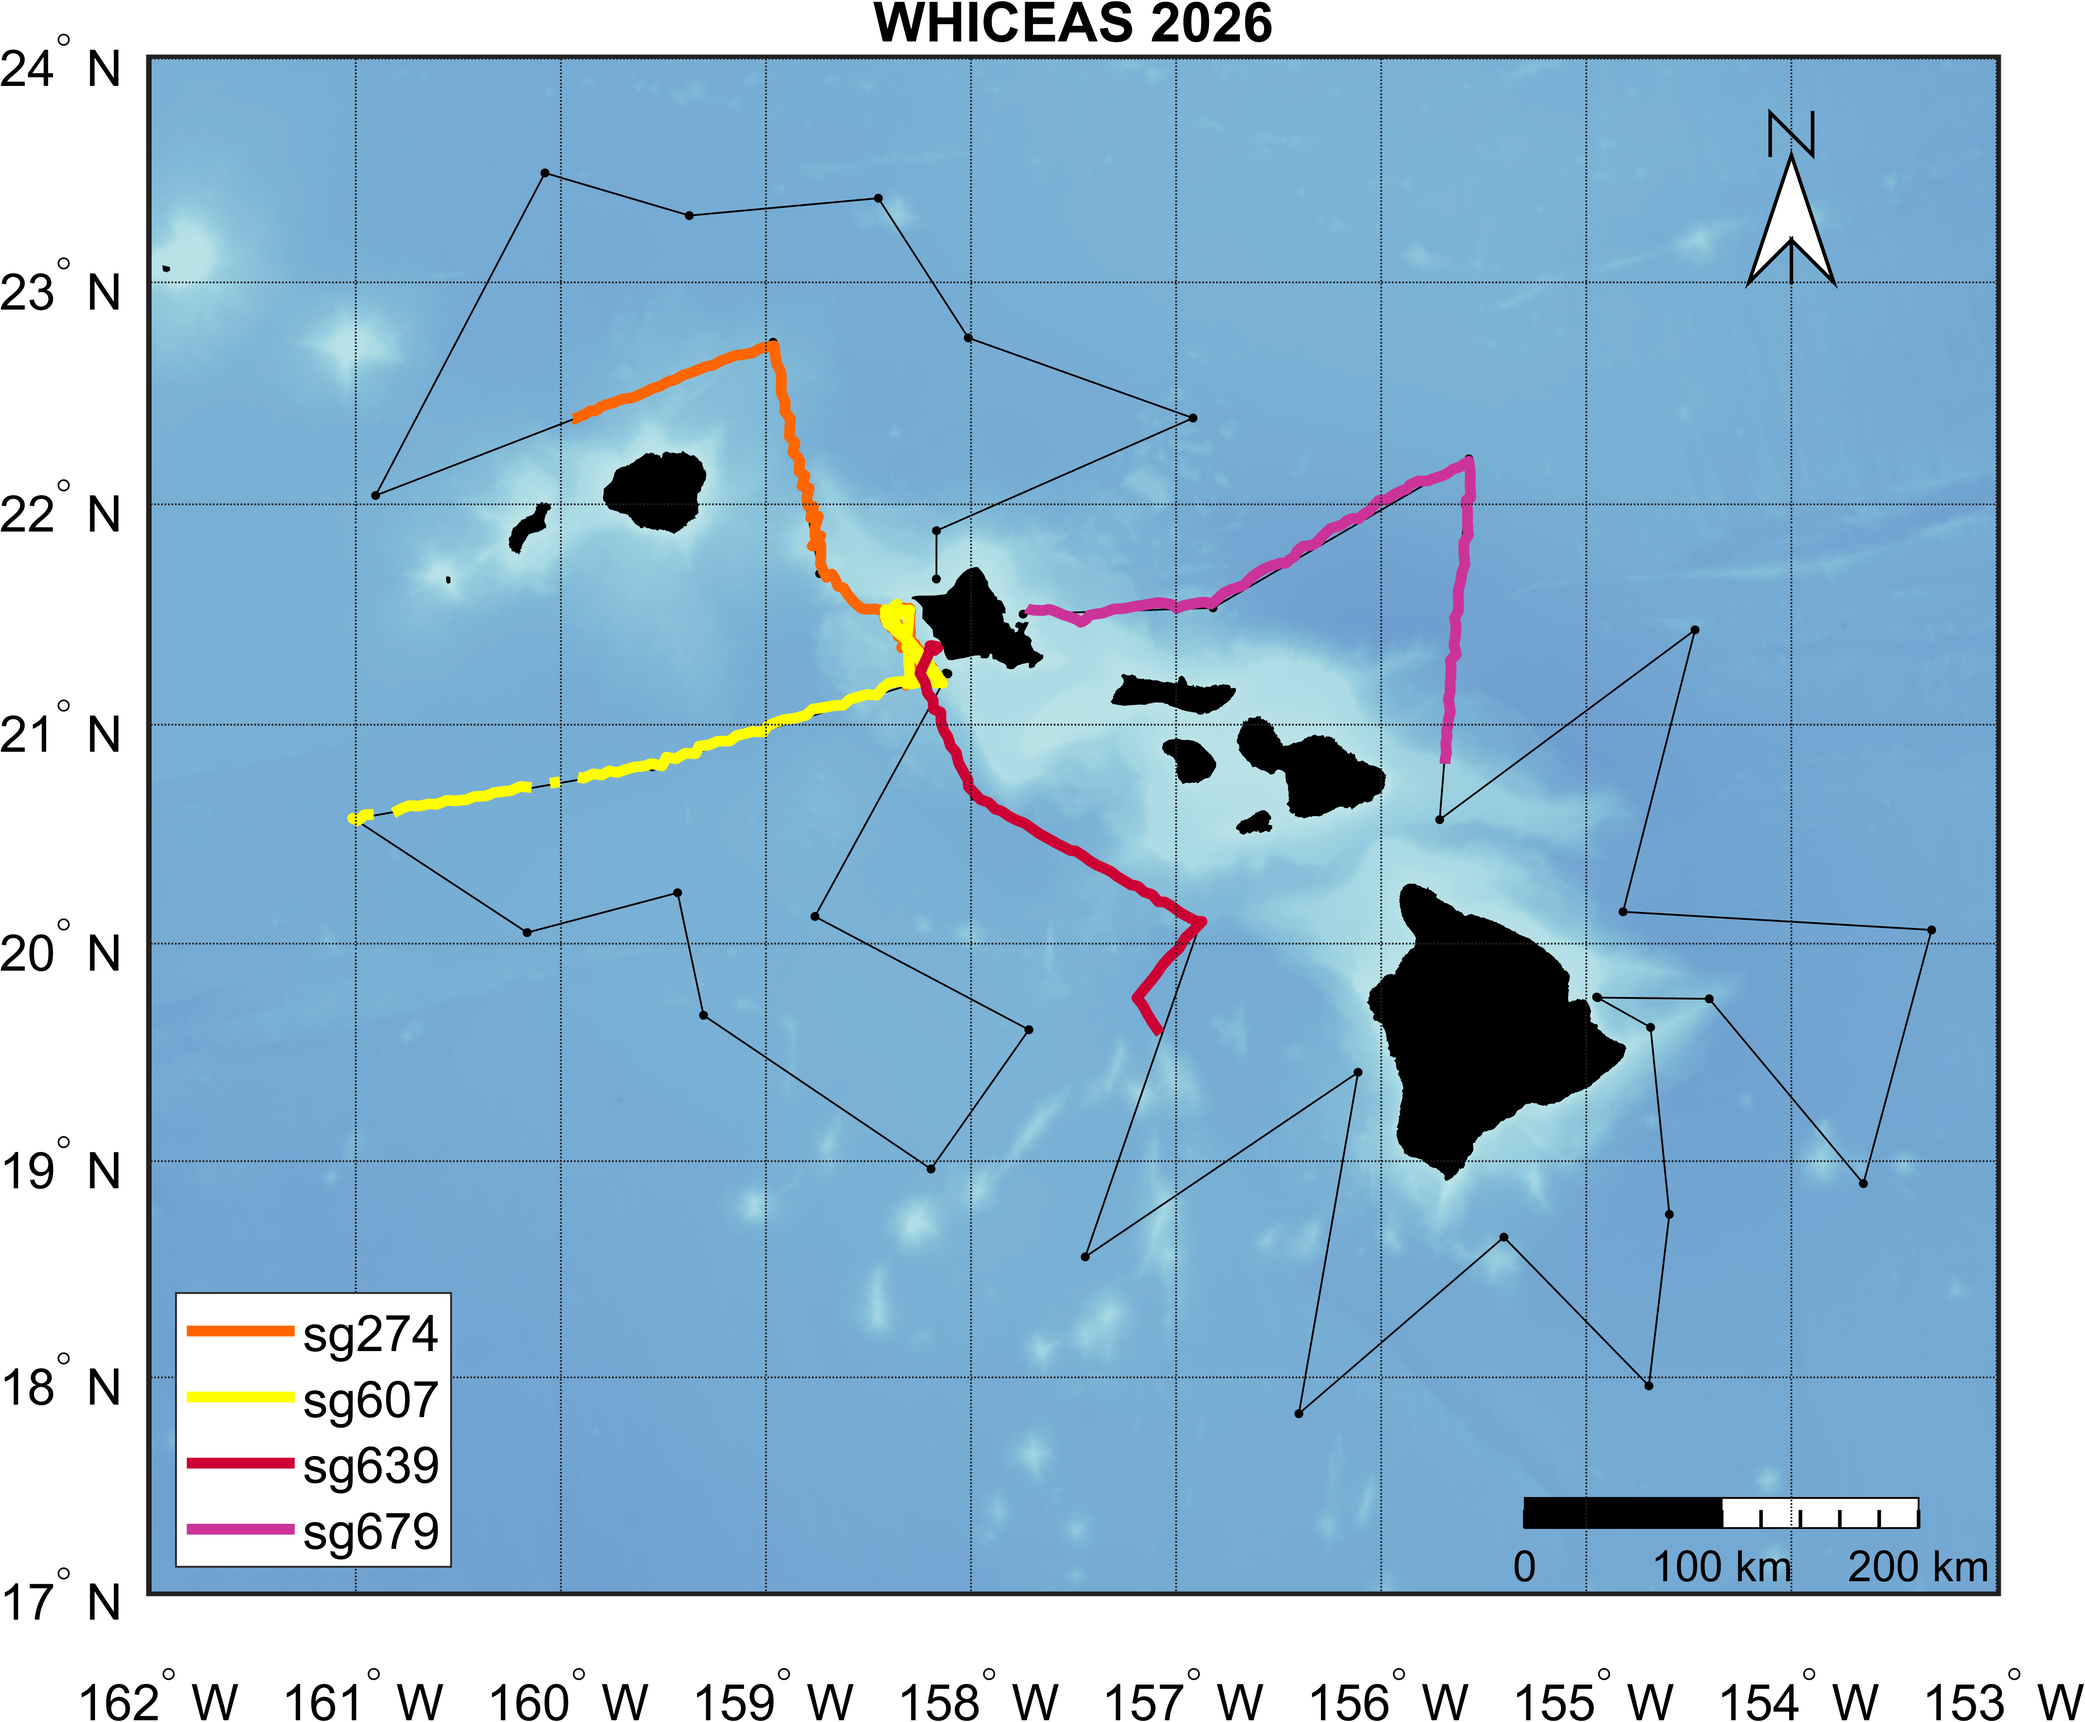
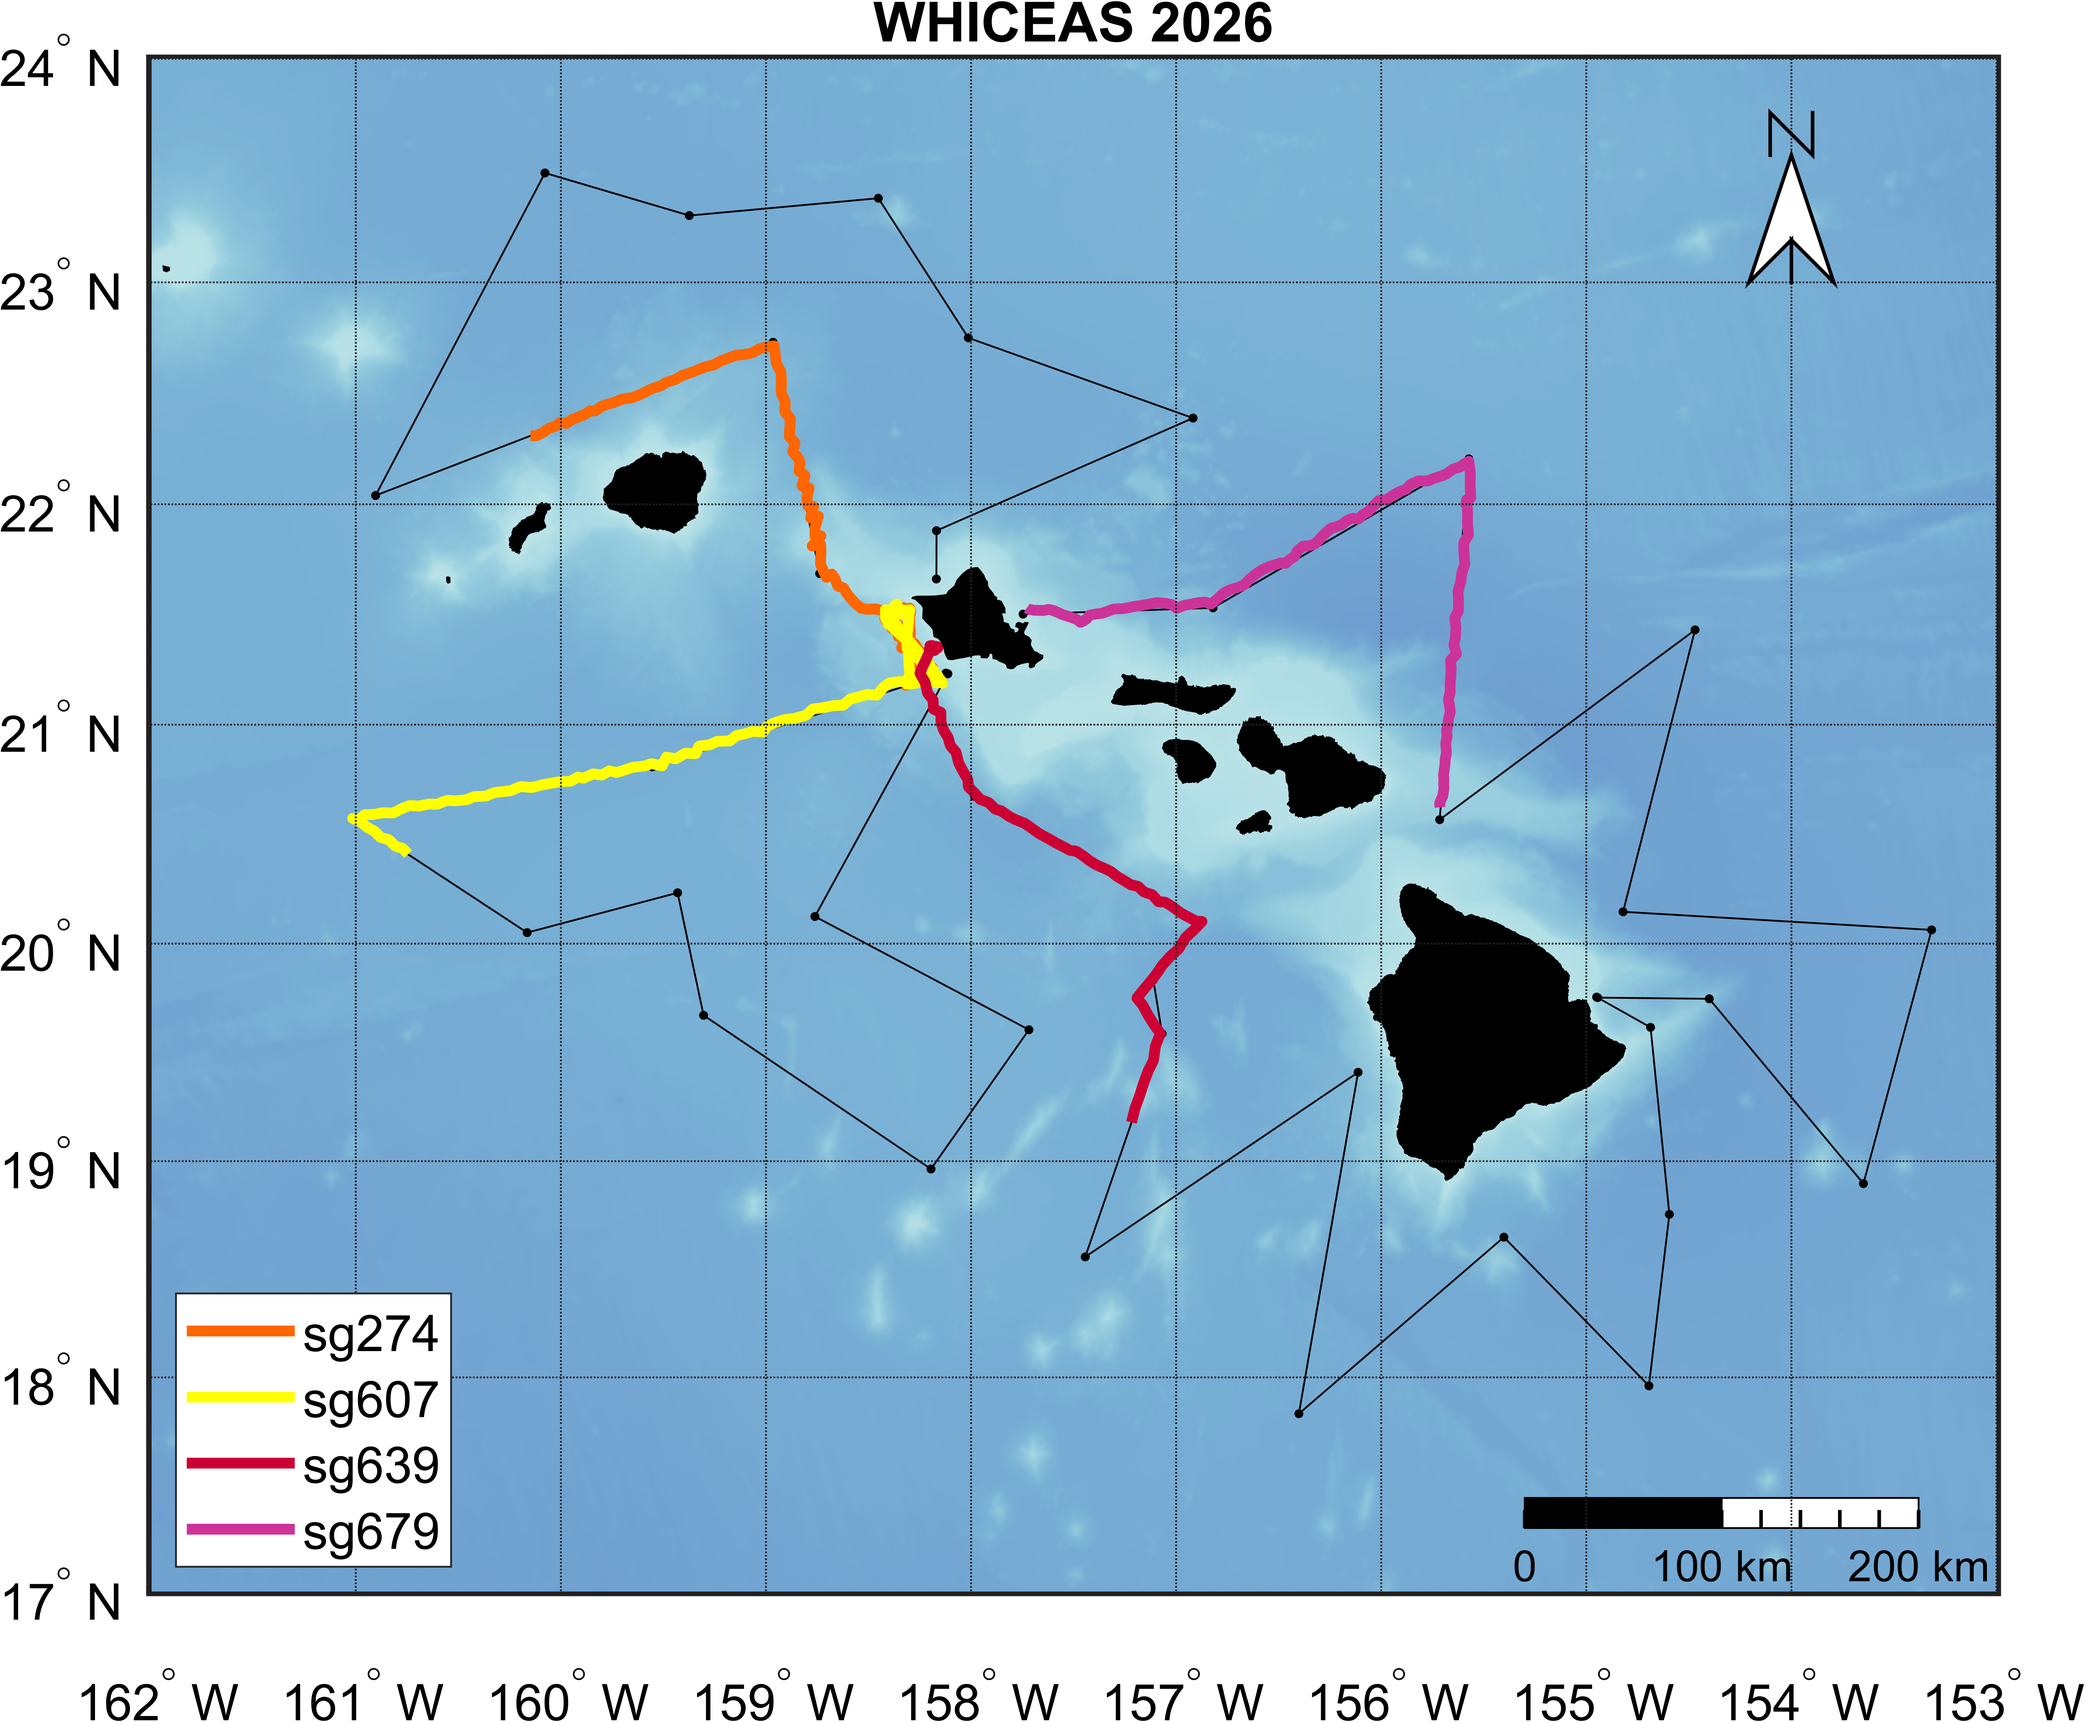
updated SG639 track, latest run

diff --git a/WHICEAS_glider_downloads.m b/WHICEAS_glider_downloads.m
@@ -58,7 +58,8 @@ targetsMidpointsFiles = { ...
     % 'targets_WHICEAS_SG607_950km_LN_20260209_withMidpoints'; ...
     'targets_WHICEAS_SG607_1050km_LN_20260224_withMidpoints'; ...
     % 'targets_WHICEAS_sg639_1200km_LS_20260211_withMidpoints'; ...
-    'targets_WHICEAS_sg639_1200km_LS_20260224_withMidpoints'; ...
+    % 'targets_WHICEAS_sg639_1200km_LS_20260224_withMidpoints'; ...
+    'targets_WHICEAS_sg639_1200km_LS_20260228_withMidpoints'; ...
     'targets_WHICEAS_sg679_1200km_WS_20260211_withMidpoints'};
 
 % define dive limits (to exclude rodeo)
@@ -110,7 +111,8 @@ targetsFiles = { ...
     % 'targets_WHICEAS_SG607_950km_LN_20260209'; ...
     'targets_WHICEAS_SG607_1050km_LN_20260224'; ...
     % 'targets_WHICEAS_sg639_1200km_LS_20260211; ...
-    'targets_WHICEAS_sg639_1200km_LS_20260224'; ...
+    % 'targets_WHICEAS_sg639_1200km_LS_20260224'; ...
+    'targets_WHICEAS_sg639_1200km_LS_20260228'; ...
     'targets_WHICEAS_sg679_1200km_WS_20260211'};
 
 % build basemap - use most recent config for bathy

diff --git a/workflow_downloadScript_sg607_20260128_WHICEAS.m b/workflow_downloadScript_sg607_20260128_WHICEAS.m
@@ -125,3 +125,7 @@ exportgraphics(gca, fullfile(path_status, [CONFIG.glider '_map.png']), ...
 % tm = printRecoveryMetrics(CONFIG, pp, fullfile(CONFIG.path.mission, ...
 % 	'targets'), recovery, recTZ, 1);
 % 
+
+fprintf(1, 'SG607 done.\n\n')
+ 
+end

diff --git a/workflow_downloadScript_sg639_20260211_WHICEAS.m b/workflow_downloadScript_sg639_20260211_WHICEAS.m
@@ -104,4 +104,7 @@ exportgraphics(gca, fullfile(path_status, [CONFIG.glider '_map.png']), ...
 % tm = printRecoveryMetrics(CONFIG, pp, fullfile(CONFIG.path.mission, ...
 % 	'targets'), recovery, recTZ, 1);
 % 
+
+fprintf(1, 'SG639 done.\n\n')
+
 end

diff --git a/workflow_downloadScript_sg274_20260128_WHICEAS.m b/workflow_downloadScript_sg274_20260128_WHICEAS.m
@@ -115,4 +115,6 @@ exportgraphics(gca, fullfile(path_status, [CONFIG.glider '_map.png']), ...
 % tm = printRecoveryMetrics(CONFIG, pp, fullfile(CONFIG.path.mission, ...
 % 	'targets'), recovery, recTZ, 1);
 % 
+fprintf(1, 'SG274 done.\n\n')
+
 end

diff --git a/workflow_downloadScript_sg679_20260205_WHICEAS.m b/workflow_downloadScript_sg679_20260205_WHICEAS.m
@@ -99,3 +99,7 @@ exportgraphics(gca, fullfile(path_status, [CONFIG.glider '_map.png']), ...
 % tm = printRecoveryMetrics(CONFIG, pp, fullfile(CONFIG.path.mission, ...
 % 	'targets'), recovery, recTZ, 1);
 % 
+
+fprintf(1, 'SG679 done.\n\n')
+
+end
